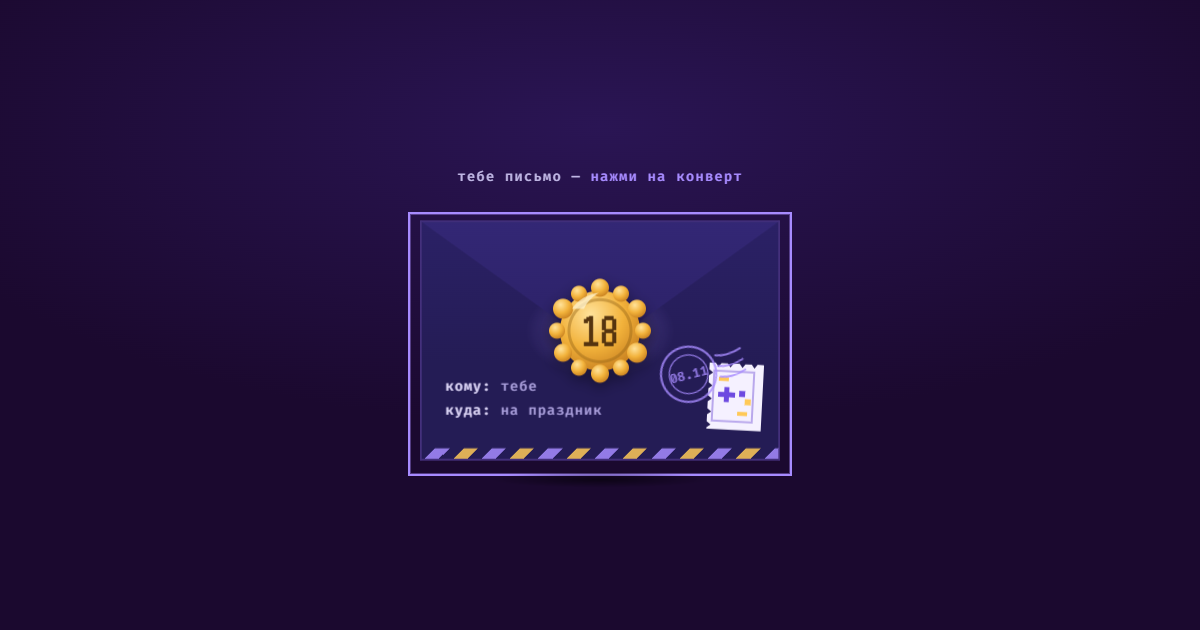
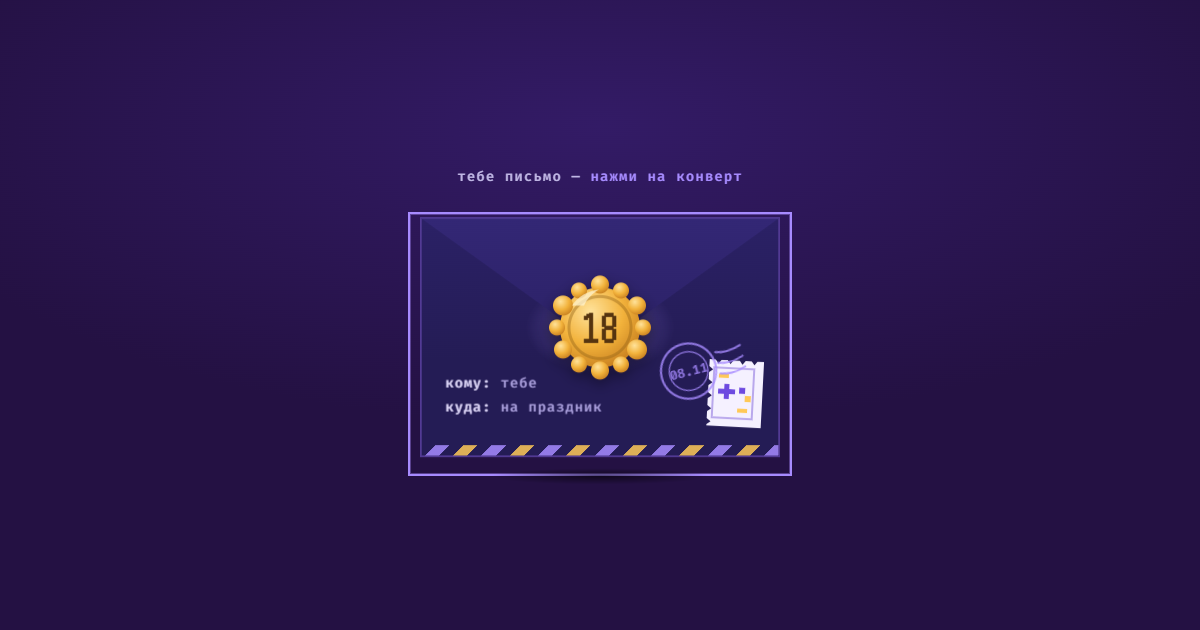
Выкладка 28.09.2026 16:22

Changed region(s): [[0.3392, 0.4222, 0.6475, 0.7841], [0.3392, 0.3317, 0.6475, 0.3619], [0.37, 0.6032, 0.4933, 0.6635]]

diff --git a/index.html b/index.html
@@ -6,7 +6,7 @@
 <title>Арине 18 · 8 ноября</title>
 <meta name="description" content="Приглашение на восемнадцатилетие Арины: 8 ноября собираемся в 12:00 у ТЦ «Шайба» и идём на Кибер Арену.">
 <meta name="robots" content="noindex">
-<meta name="theme-color" content="#1B092F">
+<meta name="theme-color" content="#241143">
 <meta property="og:title" content="Арине 18. Квест 8 ноября">
 <meta property="og:description" content="Вскрой конверт: квест 8 ноября — сбор в 12:00, Кибер Арена в 13:00, кафе и игры в 16:30.">
 <meta property="og:image" content="https://artemkaaaaa3-sketch.github.io/arina-18/img/og.png">
@@ -17,13 +17,13 @@
 
 <link rel="preconnect" href="https://fonts.googleapis.com">
 <link rel="preconnect" href="https://fonts.gstatic.com" crossorigin>
-<link rel="stylesheet" href="https://fonts.googleapis.com/css2?family=Handjet:wght@400;700&family=Fira+Code:wght@600&family=Onest:wght@400;700&display=swap">
+<link rel="stylesheet" href="https://fonts.googleapis.com/css2?family=Handjet:wght@700&family=Fira+Code:wght@600&family=Onest:wght@400;700&display=swap">
 
 <style>
 :root{
-  --night:#1B092F;
-  --panel:#241245;
-  --line:#44307C;
+  --night:#241143;
+  --panel:#2E1955;
+  --line:#523A94;
   --amethyst:#A78BFF;
   --violet:#6D4AE0;
   --gold:#FFC957;
@@ -114,7 +114,7 @@ h2 em{font-style:normal;color:var(--amethyst)}
 /* ── конверт-оверлей ── */
 .envelope-screen{
   position:fixed;inset:0;z-index:80;background:
-    radial-gradient(90% 70% at 50% 20%, #2A1554 0%, var(--night) 68%);
+    radial-gradient(90% 70% at 50% 20%, #331B66 0%, var(--night) 68%);
   display:flex;flex-direction:column;align-items:center;justify-content:center;
   gap:38px;padding:24px;text-align:center;
 }
@@ -192,6 +192,11 @@ h2 em{font-style:normal;color:var(--amethyst)}
   filter:drop-shadow(0 5px 7px rgba(0,0,0,.4));
 }
 .env-seal text{font-family:"Handjet","Handjet FB",sans-serif;font-weight:700;font-size:44px}
+/* на узком конверте печать 104px наезжала на строку «кому: тебе» */
+@media (max-width:380px){
+  .env-seal{width:84px}
+  .env-glow{width:150px;height:96px}
+}
 
 /* ── герой ── */
 .hero{
@@ -249,7 +254,7 @@ h2 em{font-style:normal;color:var(--amethyst)}
 
 /* ── отсчёт ── */
 .term{overflow:hidden}
-.term-bar{display:flex;gap:8px;margin:-28px -28px 22px;padding:12px 16px;align-items:center;background:#1F0E3E}
+.term-bar{display:flex;gap:8px;margin:-28px -28px 22px;padding:12px 16px;align-items:center;background:#291549}
 .term-bar i{width:10px;height:10px;background:var(--line)}
 .term-bar i:first-child{background:var(--amethyst)}
 .term-bar span{margin-left:14px;font-family:"Fira Code","Fira FB",monospace;font-weight:600;font-size:14px;letter-spacing:.14em;text-transform:uppercase;color:var(--dim)}
@@ -266,6 +271,13 @@ h2 em{font-style:normal;color:var(--amethyst)}
 }
 .colon{font-family:"Handjet","Handjet FB",sans-serif;font-weight:700;font-size:40px;color:var(--line);transform:translateY(-6px)}
 .count-done{text-align:center;font-family:"Handjet","Handjet FB",sans-serif;font-weight:700;font-size:40px;color:var(--gold)}
+@media (max-width:374px){.count{gap:8px}}
+/* на 320 ряд шире слаба: term{overflow:hidden} молча резал крайние цифры */
+@media (max-width:355px){
+  .count{gap:6px}
+  .colon{display:none}
+  .cell b{font-size:48px}
+}
 .loadbar{margin:24px auto 0;max-width:420px;height:10px;border:2px solid var(--line);position:relative;overflow:hidden}
 .loadbar i{position:absolute;inset:0;transform-origin:left;background:linear-gradient(90deg,var(--violet),var(--amethyst));}
 
@@ -292,6 +304,8 @@ h2 em{font-style:normal;color:var(--amethyst)}
   font-family:"Fira Code","Fira FB",monospace;font-weight:600;font-size:14px;
   letter-spacing:.04em;color:var(--dim);
 }
+/* нажимаемое — шрифтом текста, по правилу ролей */
+.level .addr a{font-family:"Onest","Onest FB","Segoe UI",system-ui,sans-serif;font-weight:700;letter-spacing:normal}
 .level p{color:var(--dim);margin-top:8px;font-size:17px}
 .level .tag{
   display:inline-block;margin-top:12px;font-family:"Fira Code","Fira FB",monospace;font-weight:600;
@@ -387,7 +401,7 @@ h2 em{font-style:normal;color:var(--amethyst)}
 .loot-card i{font-style:normal;font-family:"Fira Code","Fira FB",monospace;font-weight:600;font-size:14px;color:var(--dim)}
 .loot-n{
   position:absolute;top:10px;right:12px;
-  font-family:"Handjet","Handjet FB",sans-serif;font-weight:700;font-size:26px;line-height:1;color:#8F7BDA;
+  font-family:"Handjet","Handjet FB",sans-serif;font-weight:700;font-size:26px;line-height:1;color:#9C8AE0;
 }
 .loot-state{
   margin-top:auto;align-self:flex-start;
@@ -399,7 +413,12 @@ h2 em{font-style:normal;color:var(--amethyst)}
 .loot-note{margin-top:22px;color:var(--dim)}
 @media (max-width:560px){
   .loot{grid-template-columns:1fr 1fr;gap:14px}
-  .loot-card{padding:14px 12px 12px}
+  .loot-card{padding:14px 12px 12px;min-width:0}
+  .loot-card b{hyphens:auto}
+}
+/* на самых узких экранах два столбца не помещаются даже с переносами */
+@media (max-width:359px){
+  .loot{grid-template-columns:1fr}
 }
 
 /* ── скриншоты дня ── */
@@ -549,7 +568,7 @@ footer small{font-family:"Fira Code","Fira FB",monospace;font-weight:600;font-si
         <div>
           <time>12:00</time>
           <h3>Сбор у ТЦ «Шайба»</h3>
-          <span class="addr">ул. Яна Фабрициуса, 5В · главный вход</span>
+          <span class="addr">ул. Яна Фабрициуса, 5В · главный вход · <a href="https://yandex.ru/maps/?text=Псков, Яна Фабрициуса 5В" target="_blank" rel="noopener">на карте</a></span>
           <p>Собираемся, считаем всех по головам — и стартуем вместе.</p>
         </div>
       </div>
@@ -559,7 +578,7 @@ footer small{font-family:"Fira Code","Fira FB",monospace;font-weight:600;font-si
         <div>
           <time>13:00</time>
           <h3>Кибер Арена</h3>
-          <span class="addr">Рижский проспект, 70 · цокольный этаж</span>
+          <span class="addr">Рижский проспект, 70 · цокольный этаж · <a href="https://yandex.ru/maps/?text=Псков, Рижский проспект 70" target="_blank" rel="noopener">на карте</a></span>
           <p>Главная локация дня — играем на больших экранах в командные катки с криками «за что!», а новичкам объясняем кнопки.</p>
           <span class="tag">точка дня</span>
         </div>
@@ -600,7 +619,7 @@ footer small{font-family:"Fira Code","Fira FB",monospace;font-weight:600;font-si
       <div class="quiz-progress" id="qProgress" aria-hidden="true"></div>
       <div class="quiz-stage" id="qStage" aria-live="polite">
         <div class="q-card" id="qIntro">
-          <p class="q-text">Готов проверить дружбу?</p>
+          <p class="q-text">Проверим дружбу?</p>
           <p style="color:var(--dim);margin-inline:auto">За верный ответ прилетают звезда и конфетти, а за промах — честная история, как всё было на самом деле. Переиграть можно сколько угодно.</p>
           <button class="btn btn-main q-next" id="qStart" type="button">Начать игру</button>
         </div>
@@ -667,7 +686,7 @@ footer small{font-family:"Fira Code","Fira FB",monospace;font-weight:600;font-si
         <span class="loot-state">свободен</span>
       </div>
     </div>
-    <p class="loot-note">Чтобы подарок не задвоился: выбрал — <a href="https://t.me/kyun_star_11" target="_blank" rel="noopener">напиши Арине</a> «беру №…», и мы пометим его занятым.</p>
+    <p class="loot-note">Чтобы подарок не задвоился, <a href="https://t.me/kyun_star_11" target="_blank" rel="noopener">напиши Арине</a> «беру №…» — и мы пометим его занятым в списке.</p>
   </div>
 </section>
 
@@ -700,7 +719,7 @@ footer small{font-family:"Fira Code","Fira FB",monospace;font-weight:600;font-si
       <button class="btn btn-main" id="yes" type="button">Погнали!</button>
       <button class="btn" id="no" type="button">Не смогу</button>
     </div>
-    <div class="answer">
+    <div class="answer" aria-live="polite">
       <div id="aYes" class="hidden">
         <span class="pix">Ура, ждём тебя!</span>
         <span class="ans-note">Чтобы ответ засчитался, черкни Арине в личку.</span>
@@ -908,9 +927,8 @@ footer small{font-family:"Fira Code","Fira FB",monospace;font-weight:600;font-si
   var timer = setInterval(tick, 1000);
 
   /* ── викторина ──
-     ВОПРОСЫ-ЗАГЛУШКИ: заменить на настоящие от Арины (текст, варианты,
-     индекс правильного ok и предыстория why). Вопрос про цвет — настоящий:
-     фиолетовый Арина выбрала сама. Механика готова. */
+     Вопросы, варианты и истории why — дословно от Арины (28.09.2026).
+     Тексты не переписывать, чинить можно только явные опечатки набора. */
   var QUIZ = [
     { q: "Мои любимые цветы",
       a: ["Розы", "Пионы", "Лилии"], ok: 2,
